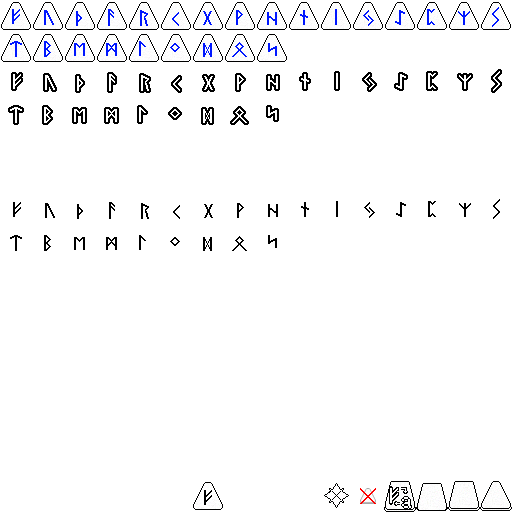
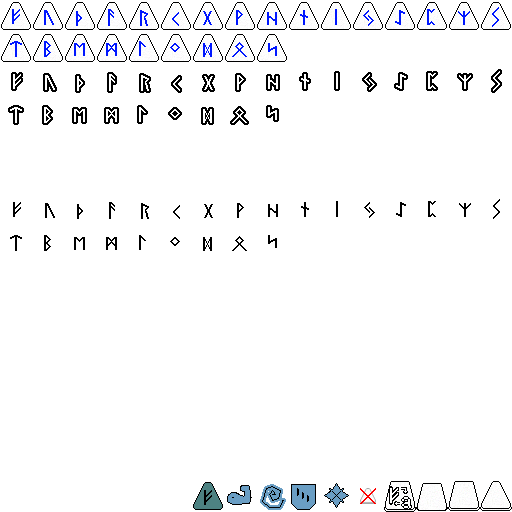
Add legend.

Changed region(s): [[0.375, 0.9375, 0.6875, 1.0]]

diff --git a/src/ui/binding_panel.rs b/src/ui/binding_panel.rs
@@ -9,6 +9,15 @@ use crate::ui::palette::*;
 
 const BINDING_ICON_INDEX: usize = 246;
 
+/// Legend entries: (sprite atlas index, name, description of the numbers).
+const LEGEND_ENTRIES: &[(usize, &str, &str)] = &[
+    (250, "Damage", "hp"),
+    (249, "Shield", "hp / seconds"),
+    (248, "Stun", "seconds"),
+    (247, "Buff", "+dmg / seconds"),
+    (246, "Binding", "stacks"),
+];
+
 // ─── Components ───────────────────────────────────────────────────────────────
 
 /// Container for the binding icons (always visible).
@@ -18,6 +27,10 @@ struct BindingIconsArea;
 /// Container for the word list (only visible during Binding phase).
 #[derive(Component)]
 struct BindingWordListArea;
+
+/// Container for the spell-icon legend (visible outside Binding phase).
+#[derive(Component)]
+struct BindingLegendArea;
 
 /// Marker for individual binding icon nodes so we can despawn/rebuild them.
 #[derive(Component)]
@@ -75,6 +88,7 @@ fn spawn_binding_panel(
     }
 
     let font_heading = game_assets.font_cormorant_unicase_semibold.clone();
+    let font_aside = game_assets.font_im_fell_sc.clone();
 
     // Style the panel itself.
     commands
@@ -183,6 +197,57 @@ fn spawn_binding_panel(
                                 },
                             ));
                         });
+
+                    // Legend area (hidden during binding phase)
+                    content
+                        .spawn((
+                            BindingLegendArea,
+                            Node {
+                                flex_grow: 1.0,
+                                flex_direction: FlexDirection::Row,
+                                flex_wrap: FlexWrap::Wrap,
+                                column_gap: Val::Px(12.0),
+                                row_gap: Val::Px(2.0),
+                                align_items: AlignItems::Center,
+                                ..default()
+                            },
+                        ))
+                        .with_children(|legend| {
+                            for (icon_index, name, description) in LEGEND_ENTRIES {
+                                legend
+                                    .spawn(Node {
+                                        flex_direction: FlexDirection::Row,
+                                        column_gap: Val::Px(4.0),
+                                        align_items: AlignItems::Center,
+                                        ..default()
+                                    })
+                                    .with_children(|entry| {
+                                        entry.spawn((
+                                            Node {
+                                                width: Val::Px(16.0),
+                                                height: Val::Px(16.0),
+                                                ..default()
+                                            },
+                                            ImageNode::from_atlas_image(
+                                                game_assets.futhark.clone(),
+                                                TextureAtlas {
+                                                    layout: game_assets.futhark_layout.clone(),
+                                                    index: *icon_index,
+                                                },
+                                            ),
+                                        ));
+                                        entry.spawn((
+                                            Text::new(format!("{name} — {description}")),
+                                            TextFont {
+                                                font: font_aside.clone(),
+                                                font_size: 10.0,
+                                                ..default()
+                                            },
+                                            TextColor(PARCHMENT),
+                                        ));
+                                    });
+                            }
+                        });
                 });
         });
 }
@@ -200,11 +265,27 @@ fn sync_binding_panel(
     existing_words: Query<Entity, With<BindingWordListText>>,
     mut icons_area_node_query: Query<
         &mut Node,
-        (With<BindingIconsArea>, Without<BindingWordListArea>),
+        (
+            With<BindingIconsArea>,
+            Without<BindingWordListArea>,
+            Without<BindingLegendArea>,
+        ),
     >,
     mut word_list_node_query: Query<
         &mut Node,
-        (With<BindingWordListArea>, Without<BindingIconsArea>),
+        (
+            With<BindingWordListArea>,
+            Without<BindingIconsArea>,
+            Without<BindingLegendArea>,
+        ),
+    >,
+    mut legend_node_query: Query<
+        &mut Node,
+        (
+            With<BindingLegendArea>,
+            Without<BindingIconsArea>,
+            Without<BindingWordListArea>,
+        ),
     >,
     mut panel_state: ResMut<BindingPanelState>,
 ) {
@@ -259,7 +340,7 @@ fn sync_binding_panel(
         }
     });
 
-    // ── Update word list area visibility ─────────────────────────────────────
+    // ── Update word list / legend visibility ─────────────────────────────────
     if let Ok(mut word_list_node) = word_list_node_query.single_mut() {
         word_list_node.display = if is_binding_phase {
             Display::Flex
@@ -267,16 +348,18 @@ fn sync_binding_panel(
             Display::None
         };
     }
-
-    // During binding phase, adjust icons area to take only 25% width.
-    if let Ok(mut icons_node) = icons_area_node_query.single_mut() {
-        if is_binding_phase {
-            icons_node.flex_grow = 0.0;
-            icons_node.width = Val::Percent(25.0);
+    if let Ok(mut legend_node) = legend_node_query.single_mut() {
+        legend_node.display = if is_binding_phase {
+            Display::None
         } else {
-            icons_node.flex_grow = 1.0;
-            icons_node.width = Val::Auto;
-        }
+            Display::Flex
+        };
+    }
+
+    // Icons area stays at a fixed share now that something always sits beside it.
+    if let Ok(mut icons_node) = icons_area_node_query.single_mut() {
+        icons_node.flex_grow = 0.0;
+        icons_node.width = Val::Percent(25.0);
     }
 
     // ── Update word list content ─────────────────────────────────────────────

diff --git a/src/combat.rs b/src/combat.rs
@@ -10,9 +10,9 @@ use crate::dictionary;
 use crate::health::{NpcAttack, NpcAttackState, NpcCombatState, PlayerCombatState};
 use crate::npcs::NpcSpec;
 use crate::rune_words::battle::{BattlePhase, BattleState, PendingRowGrading};
+use crate::rune_words::battle_states::LastGradedWord;
 use crate::rune_words::battle_states::acting::StartActing;
 use crate::rune_words::battle_states::binding::{BindingData, BindingSucceeded, StartBinding};
-use crate::rune_words::battle_states::{LastGradedWord, WordBook};
 use crate::spellbook::{Book, LearnedSpells};
 use crate::tutorial::TutorialState;
 use crate::ui::effects::EffectsQueue;
@@ -74,7 +74,6 @@ fn reset_adventure_state(
     mut run_stats: ResMut<RunStats>,
     mut pending_grading: ResMut<PendingRowGrading>,
     mut last_graded: ResMut<LastGradedWord>,
-    mut word_book: ResMut<WordBook>,
     npc_query: Query<Entity, With<NpcCombatState>>,
 ) {
     // Player: full health, no shields/buffs, empty deck
@@ -95,7 +94,6 @@ fn reset_adventure_state(
     *binding_data = BindingData::default();
     *pending_grading = PendingRowGrading::default();
     *last_graded = LastGradedWord::default();
-    *word_book = WordBook::default();
     spell_selection.close();
 
     // Reset NPC spawn timer

diff --git a/src/rune_words/battle_states/mod.rs b/src/rune_words/battle_states/mod.rs
@@ -5,11 +5,6 @@ use bevy::prelude::*;
 
 use crate::dictionary::Futharkation;
 
-#[derive(Resource, Default)]
-pub struct WordBook {
-    pub words: Vec<Futharkation>,
-}
-
 #[derive(bevy::ecs::message::Message, Clone, Debug)]
 pub struct QuickTime(pub Futharkation);
 
@@ -18,12 +13,6 @@ pub struct QuickTime(pub Futharkation);
 #[derive(Resource, Default)]
 pub struct LastGradedWord {
     pub word: Option<String>,
-}
-
-pub fn configure_battle_stages(app: &mut App) {
-    app.init_resource::<WordBook>();
-    app.init_resource::<LastGradedWord>();
-    app.add_message::<QuickTime>();
 }
 
 pub fn configure_battle_states(app: &mut App) {
